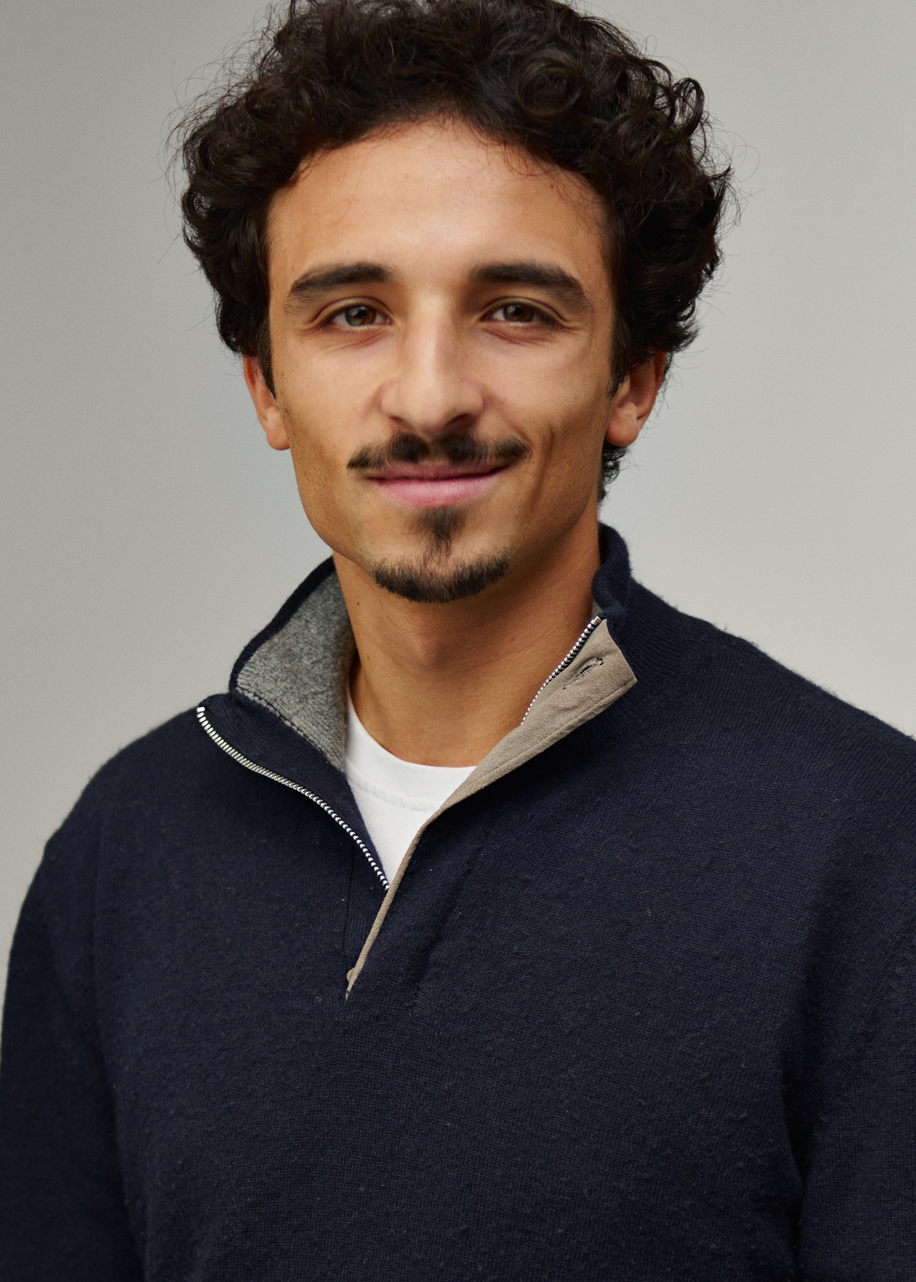
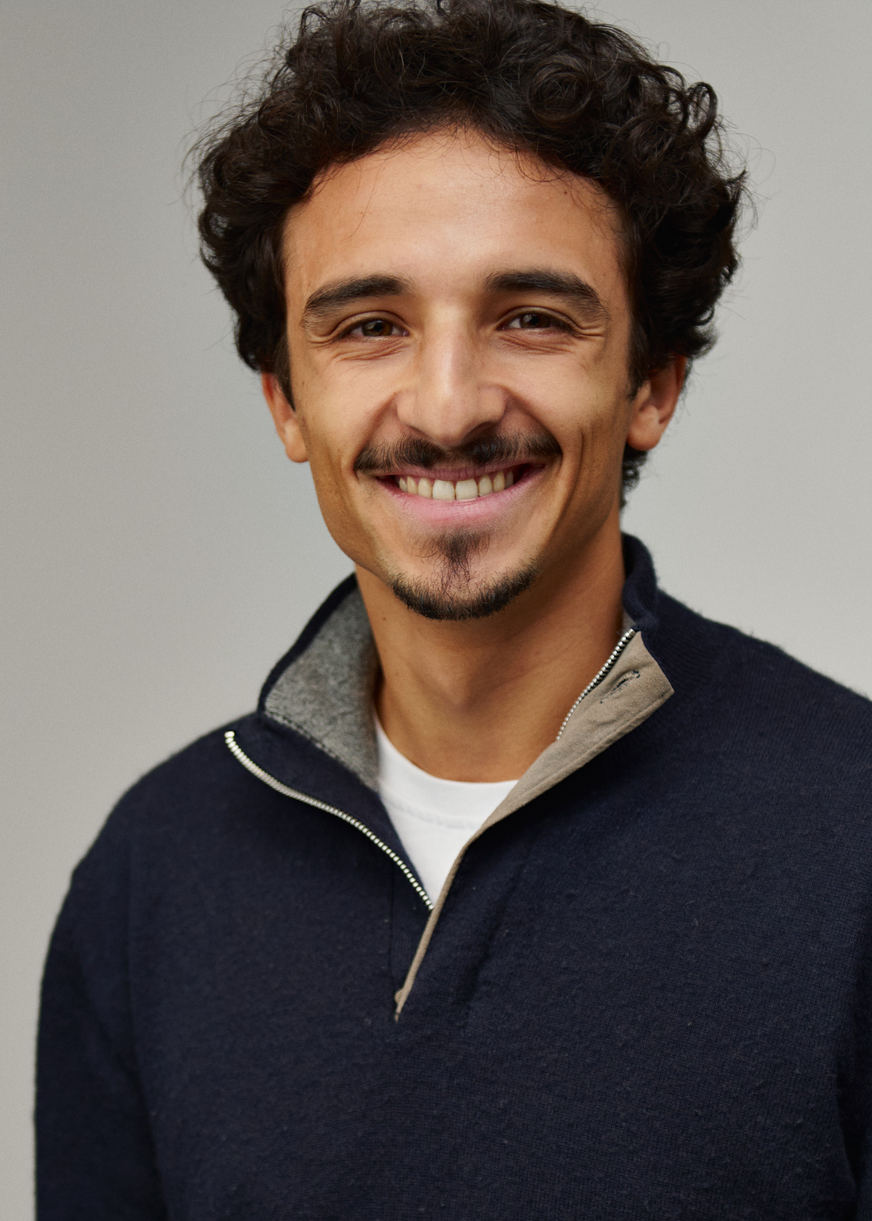
Update profile photo and retitle JMP with abstract removed

diff --git a/research.html b/research.html
@@ -29,26 +29,10 @@
   <h2 class="section-heading">Work in Progress</h2>
 
   <div class="paper">
-    <div class="paper-title">The Consequences of Gentrification on Incumbent Residents (Job Market Paper)</div>
+    <div class="paper-title">Who Benefits from New Neighbours? Gentrification and Incumbent Children in English Cities</div>
     <div class="paper-authors">Amine Derdari</div>
     <p class="paper-abstract">
-      Cities in post-industrial countries have drawn college graduates back into neighbourhoods
-      that were abandoned a generation earlier. I estimate how this inflow of highly
-      qualified residents into low-educated neighbourhoods&mdash;what I define as gentrification&mdash;
-      affects incumbent children in 108 English cities between 2001 and 2011. Most
-      evidence on neighbourhood effects comes from children who move; I focus instead on
-      those who stay while their neighbourhood changes around them. Because neighbourhoods
-      that attract educated in-movers already differ in ways that matter for children,
-      I instrument this change with the stock of buildings listed before 2001. In gentrifying
-      neighbourhoods, incumbent children are 7.8 percentage points more likely to make
-      expected progress in mathematics and 6.2 points more likely in English, while OLS
-      estimates are close to zero. Gains concentrate along ethnic and linguistic lines rather
-      than economic ones: White and English-native pupils gain most, while I cannot reject
-      that disadvantaged pupils gain as much as their peers. Across neighbourhoods,
-      gains are largest where residents were predominantly White and private renting was
-      rare, and show no detectable difference by baseline deprivation. Work in progress on
-      mechanisms suggests that the effect operates in the neighbourhood rather than through
-      schools or household resources.
+      Work in Progress
     </p>
   </div>
 
